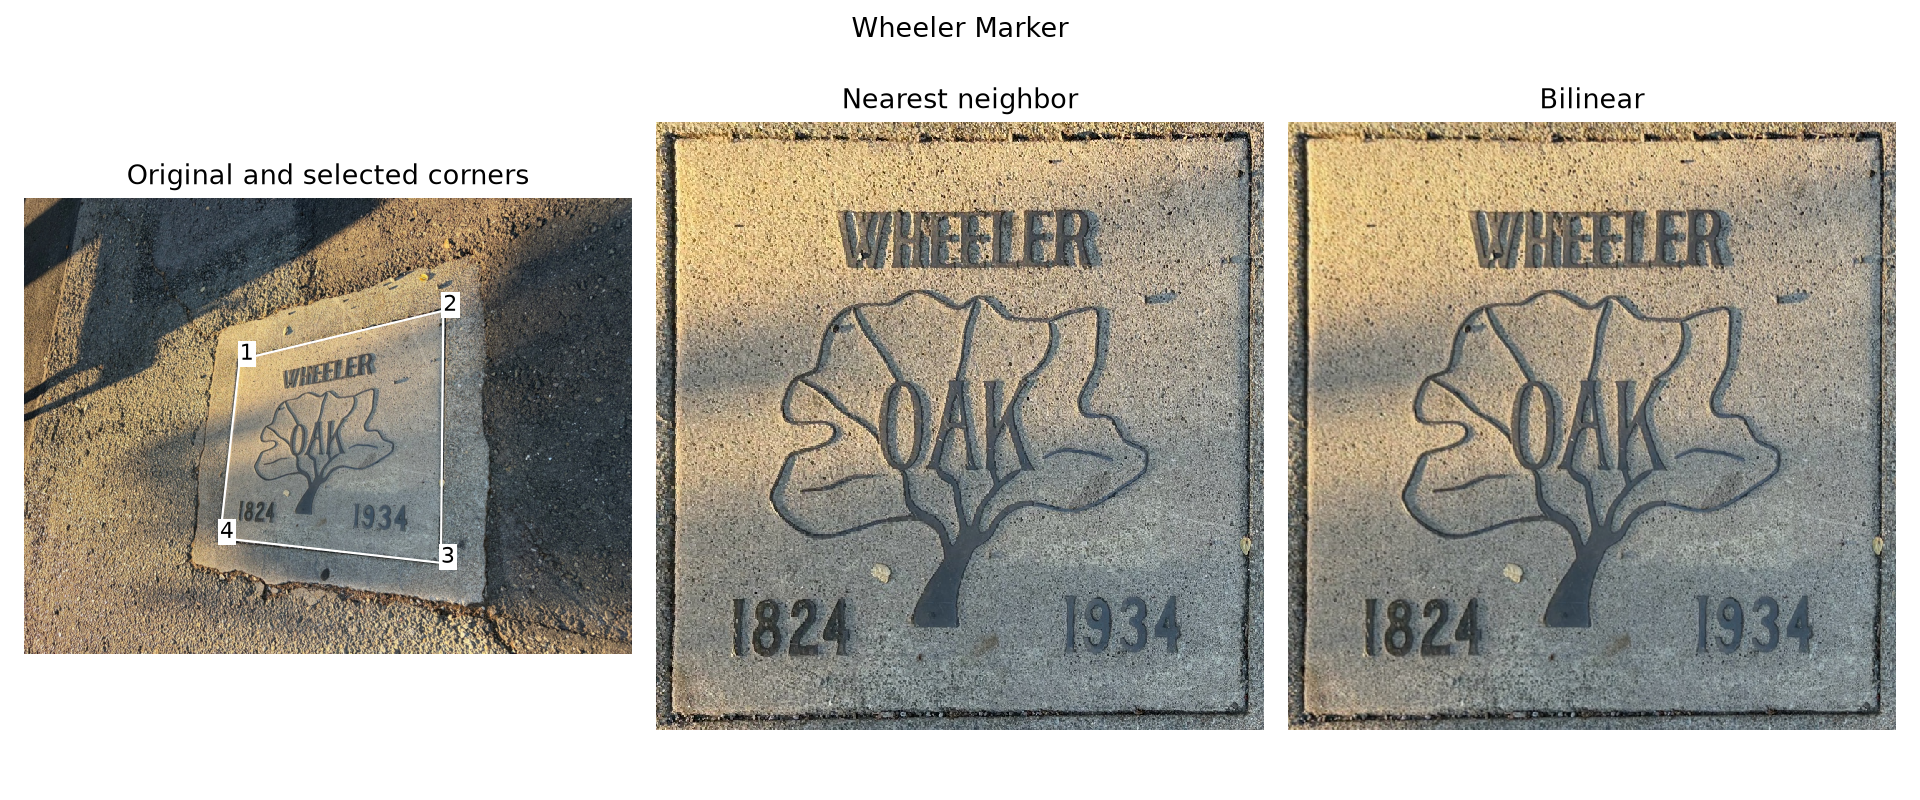
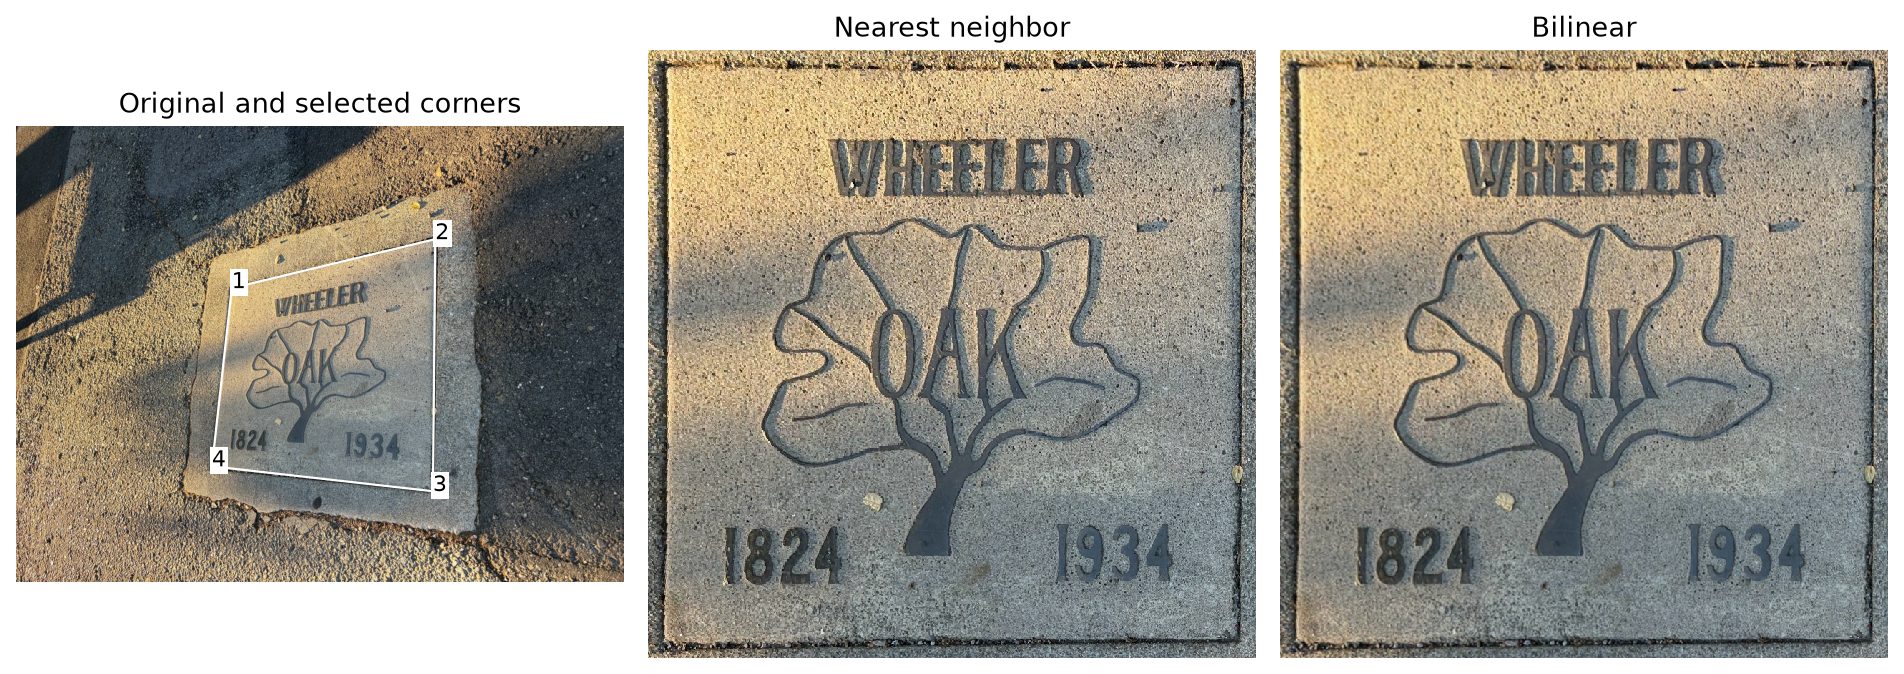
Remove redundant Wheeler figure titles

diff --git a/cs180/proj4/index.html b/cs180/proj4/index.html
@@ -175,10 +175,10 @@ h = [h₁₁, h₁₂, h₁₃, h₂₁, h₂₂, h₂₃, h₃₁, h₃₂]ᵀ<
   <p><strong>Wheeler marker.</strong> I map the selected inner square to an 800 × 800 square with destination corners (0, 0), (799, 0), (799, 799), and (0, 799), in the same order, assuming the plaque is square. I retain 25 pixels of surrounding warped image on each side, giving an 850 × 850 display so the border remains visible.</p>
 </div>
 <figure class="result-figure">
-  <a class="image-link" href="images/a3_wheeler_marker_comparison.png" aria-label="Open full-resolution image: Wheeler marker: original with selected inner-square corners, nearest neighbor rectification, and bilinear rectification"><img src="images/a3_wheeler_marker_comparison.png" alt="Wheeler marker: original with selected inner-square corners, nearest neighbor rectification, and bilinear rectification" width="1920" height="800" loading="lazy" decoding="async" /></a>
+  <a class="image-link" href="images/a3_wheeler_marker_comparison.png" aria-label="Open full-resolution image: Wheeler marker: original with selected inner-square corners, nearest neighbor rectification, and bilinear rectification"><img src="images/a3_wheeler_marker_comparison.png" alt="Wheeler marker: original with selected inner-square corners, nearest neighbor rectification, and bilinear rectification" width="1904" height="674" loading="lazy" decoding="async" /></a>
 </figure>
 <figure class="result-figure">
-  <a class="image-link" href="images/a3_wheeler_marker_detail.png" aria-label="Open full-resolution image: Enlarged Wheeler lettering: nearest neighbor on the left and bilinear on the right"><img src="images/a3_wheeler_marker_detail.png" alt="Enlarged Wheeler lettering: nearest neighbor on the left and bilinear on the right" width="1600" height="800" loading="lazy" decoding="async" /></a>
+  <a class="image-link" href="images/a3_wheeler_marker_detail.png" aria-label="Open full-resolution image: Enlarged Wheeler lettering: nearest neighbor on the left and bilinear on the right"><img src="images/a3_wheeler_marker_detail.png" alt="Enlarged Wheeler lettering: nearest neighbor on the left and bilinear on the right" width="1584" height="361" loading="lazy" decoding="async" /></a>
 </figure>
 <div class="prose">
   <p>Nearest neighbor produces more jagged letter edges and a blockier surface texture. Bilinear interpolation smooths these transitions, but also softens small text. Neither method recovers detail missing from the source photograph.</p>
